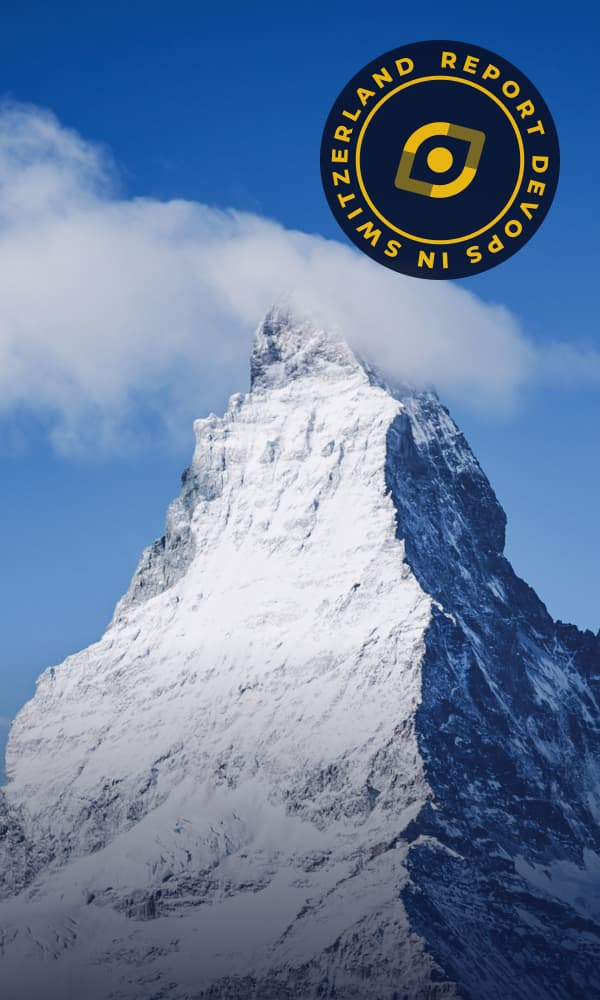
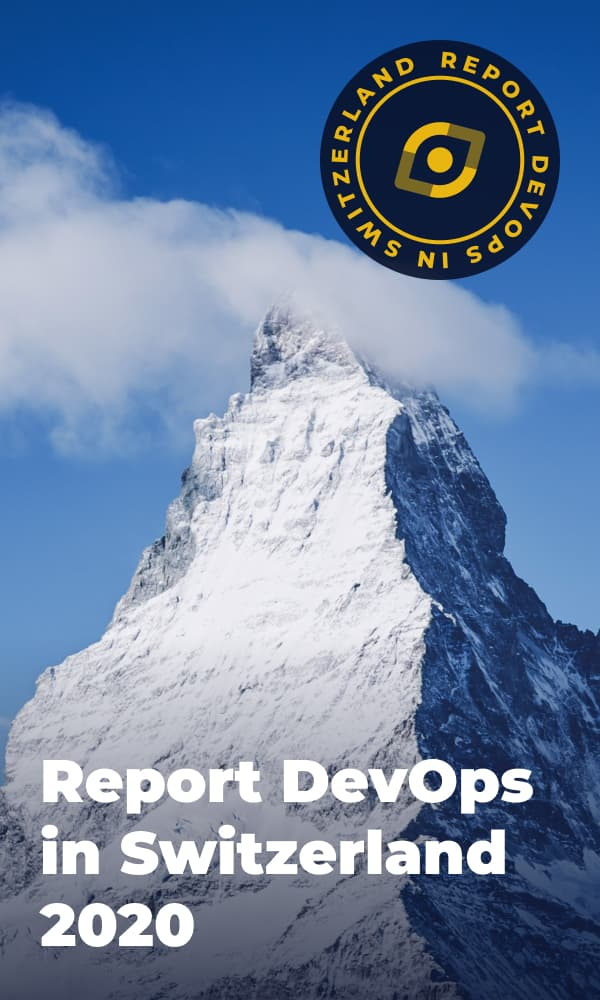
fix(components): remove illustration text from BlogPostsList for Blog

Changed region(s): [[0.06, 0.744, 0.9, 0.961]]

diff --git a/src/components/pages/blog/blog-posts-list/blog-posts-list.jsx b/src/components/pages/blog/blog-posts-list/blog-posts-list.jsx
@@ -4,7 +4,6 @@ import { graphql, useStaticQuery } from 'gatsby';
 import classNames from 'classnames/bind';
 import GatsbyImage from 'gatsby-image';
 
-import Heading from 'components/shared/heading';
 import Item from './item';
 
 import shape from './images/shape.svg';
@@ -13,7 +12,7 @@ import styles from './blog-posts-list.module.scss';
 
 const cx = classNames.bind(styles);
 
-const BlogPostList = ({ items, illustrationText }) => {
+const BlogPostList = ({ items }) => {
   const {
     image: {
       childImageSharp: { fluid: image },
@@ -42,9 +41,6 @@ const BlogPostList = ({ items, illustrationText }) => {
           <span className={cx('rectangle', 'rectangle-2')} />
           <span className={cx('rectangle', 'rectangle-3')} />
           <GatsbyImage className={cx('image')} fluid={image} />
-          <Heading className={cx('illustration-text')} tag="span" size="lg" color="tertiary">
-            {illustrationText}
-          </Heading>
         </div>
 
         <img className={cx('shape')} src={shape} alt="" aria-hidden />
@@ -63,7 +59,6 @@ BlogPostList.propTypes = {
       buttonUrl: PropTypes.string.isRequired,
     }),
   ).isRequired,
-  illustrationText: PropTypes.string.isRequired,
 };
 
 export default BlogPostList;

diff --git a/src/components/pages/blog/blog-posts-list/blog-posts-list.module.scss b/src/components/pages/blog/blog-posts-list/blog-posts-list.module.scss
@@ -51,14 +51,6 @@
   border-radius: 8px;
 }
 
-.illustration-text {
-  position: absolute;
-  right: 20px;
-  bottom: 20px;
-  left: 20px;
-  font-size: 30px;
-}
-
 .shape {
   position: absolute;
   top: 755px;

diff --git a/src/pages/blog.jsx b/src/pages/blog.jsx
@@ -87,7 +87,6 @@ const blogPostsList = {
       buttonText: 'Read more',
     },
   ],
-  illustrationText: 'Report DevOps in Switzerland 2020',
 };
 
 const pagination = {
